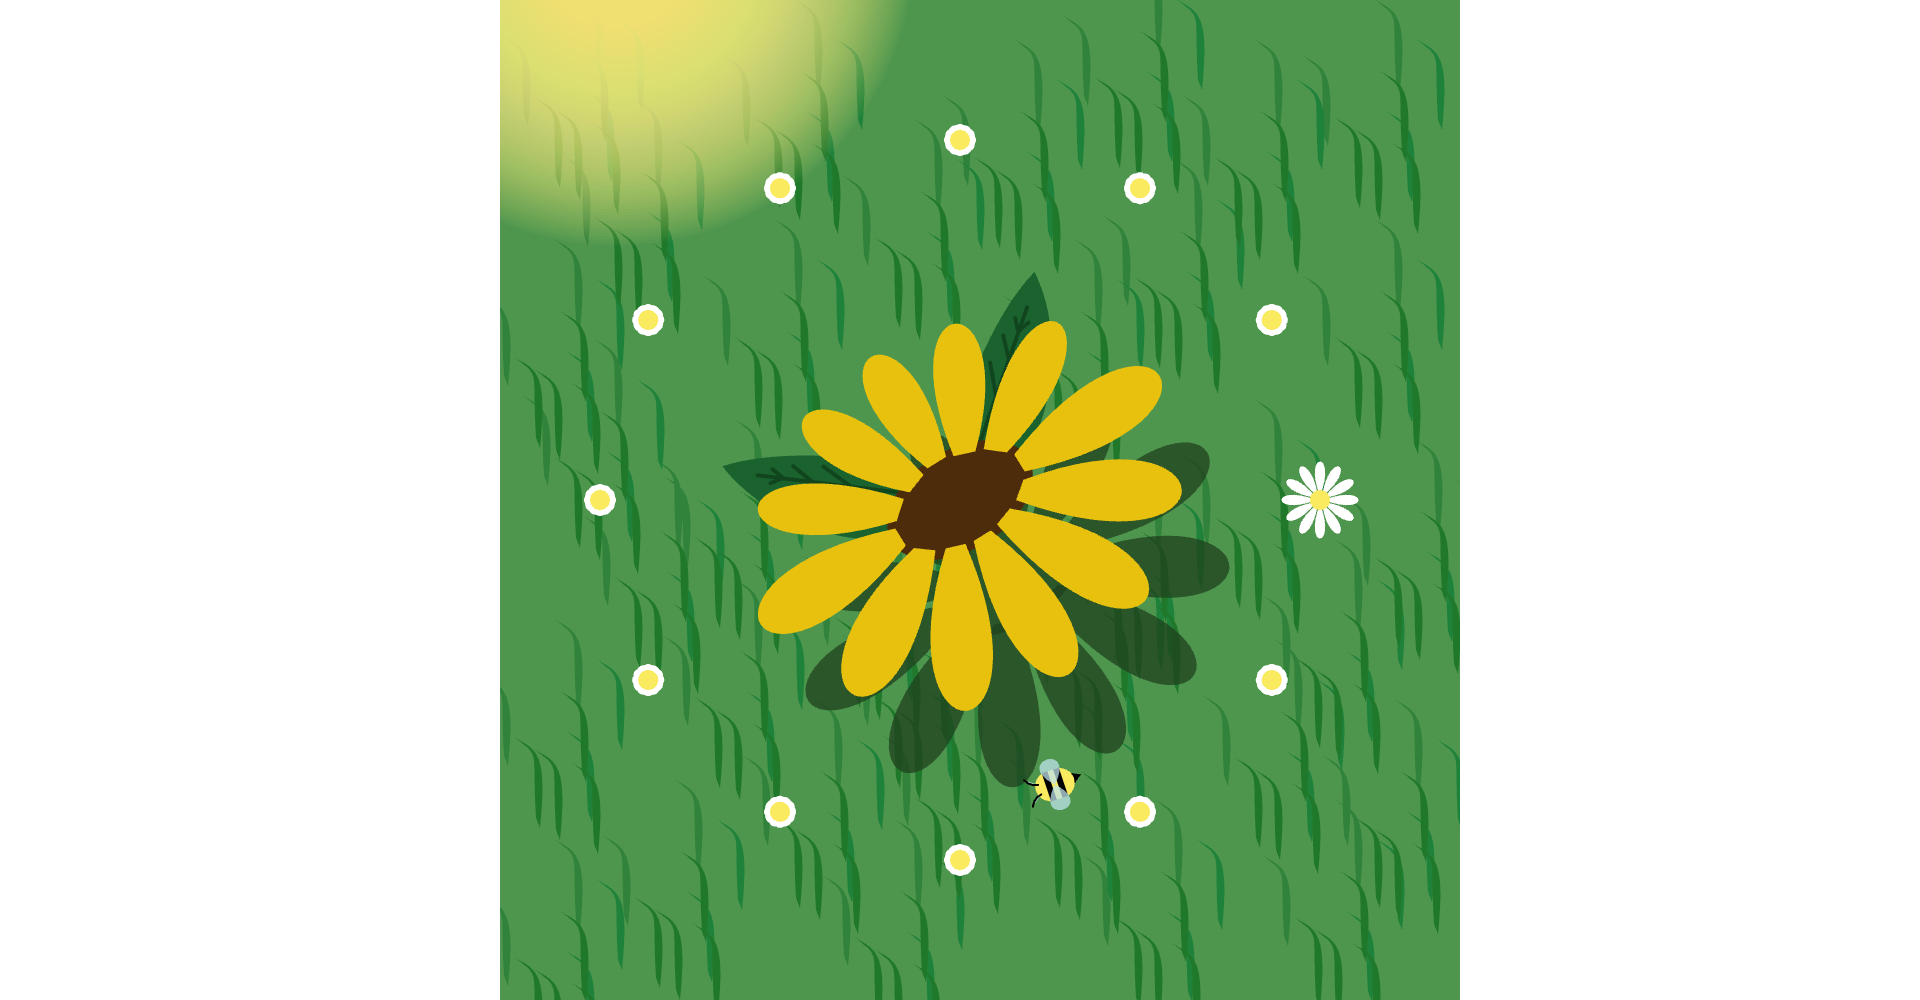
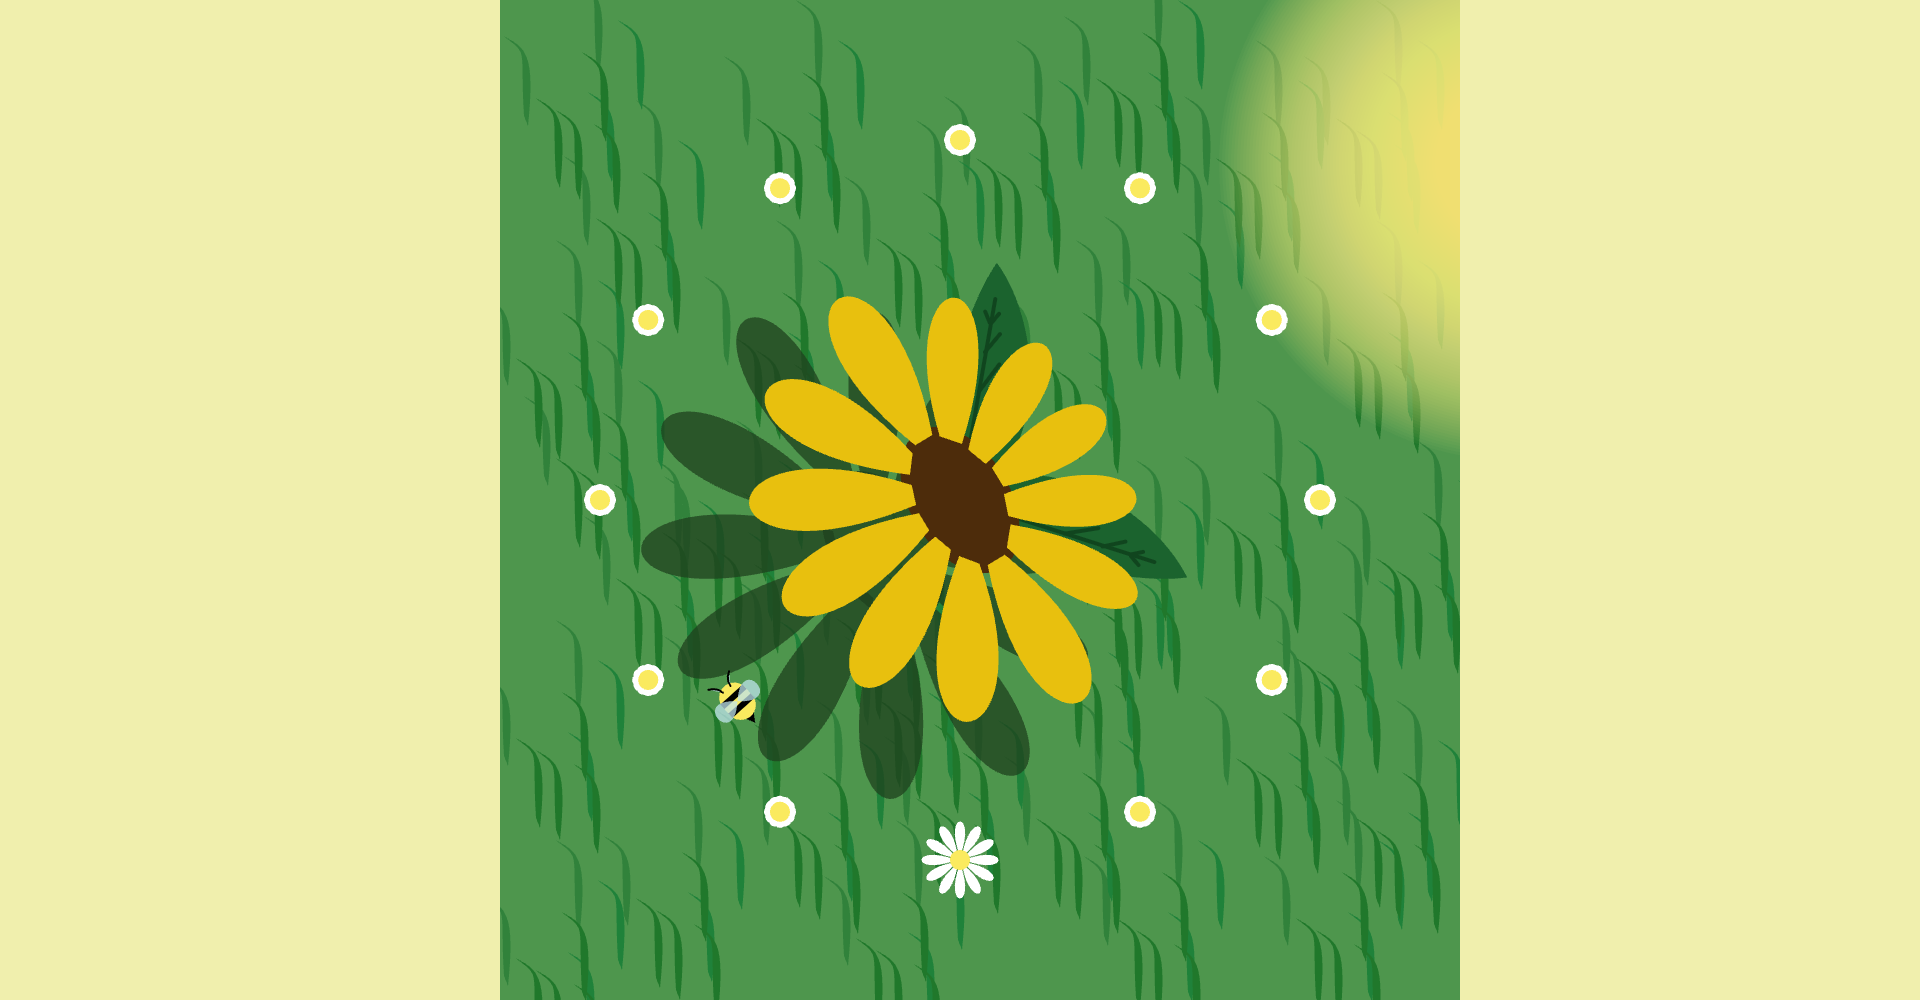
Read me and scaling shadow

diff --git a/clock.js b/clock.js
@@ -10,6 +10,7 @@ let growSun; // define sun growth's default as 0
 var shakeAngle = 0;	// initialize daisies' shake angle
 var daisyShakeRadius = .5;  // radius of daisies' shake
 
+// coordinates of daisies array
 function populate_daisyArray() {
   const daisyFieldRadius = 180; // radius of daisy field
   const daisySin30 = daisyFieldRadius * sin(30); // daisy field radius * sin(30)
@@ -68,12 +69,11 @@ function draw_clock(obj) {
   translate(0, 45); //offeset shadow
   shadow(); // sunflower shadow
   pop();
-  leaves(); // sunflower leaves
   sunflower(); // sunflower
   sun(); // sun
   pop();
  
-  if(obj.seconds_until_alarm < 0 || obj.seconds_until_alarm === undefined){ //default clock
+  if(obj.seconds_until_alarm < 0 || obj.seconds_until_alarm === undefined){ // default clock
     growSun = 0;
     push();
     daisyField(); //daisy field
@@ -102,10 +102,7 @@ function draw_clock(obj) {
   translate(-width / 2, -height / 2); // translate (0, 0) to top left of canvas
   push();
   noStroke(); // no stroke weight
-  fill(252, 238, 149); // white colour
-  // for(i = 0; i < 100; i++){
-  //   ellipse(0, -325, i * 3); // feathered circle
-  // }
+  fill(240, 239, 173); // light yellow colour
   rect(0, 0, height / 2, height); // left rectangle
   rect((width + height) / 2, 0, height / 2, height); // right rectangle
   pop();
@@ -189,6 +186,7 @@ function grassMulticoloured(){
   const green3 = color(32, 120, 43);
   const green4 = color(32, 120, 43);
 
+  // multicoloured field array
   let fieldArray = [
     [0, -40, green1],
     [-36, -12, green1],
@@ -207,7 +205,7 @@ function grassMulticoloured(){
     push();
     fill(fieldColour); // grass colours 
     translate(fieldX, fieldY); // single grass field position
-    grass(); // single gras field 
+    grass(); // single grass field 
     pop();
   }
 }
@@ -217,6 +215,15 @@ function sunflower() {
   noStroke(); // no stroke
   push();
 
+  // sunflower leaves
+  push();
+  rotate(130);
+  leaves(); // left leaf (when 0:00)
+  scale(-1, 1); // flip
+  rotate(-100); 
+  leaves(); // right leaf (when 0:00)
+  pop();
+
   // disc floret
   fill(77, 44, 11); // brown colour 
   ellipse(0, 0, 80, 50); // disk floret
@@ -224,7 +231,7 @@ function sunflower() {
   //sunflower petals
   fill(232, 192, 14); // yellow colour
 
-  // 12 o'clock petal (when 0:00
+  // 12 o'clock petal (when 0:00)
   bezier(-5.5, -22, -35, -105, 35, -105, 5.5, -22);
 
   // 1 o'clock petal (when 0:00)
@@ -274,13 +281,9 @@ function sunflower() {
   pop();
 }
 
-// sunflower leaves
+// sunflower leaf
 function leaves(){
-  push();
-
-  // left leaf (when 0:00)
-  noStroke();
-  rotate(130); // leaf position
+  noStroke(); // no stroke
   fill(27, 99, 46); // green colour
   //leaf shape
   beginShape();
@@ -296,96 +299,81 @@ function leaves(){
   line(-1, 90, 2, 95); // top line
   line(-1, 75, -7, 85); // middle line
   line(-1, 55, -9, 70); // bottom line
-
-  // right leaf (when 0:00)
-  noStroke(); // no stroke
-  rotate(100); // leaf position
-  //leaf shape
-  beginShape();
-  vertex(0, 0);
-  bezierVertex(40, 20, 30, 90, 0, 120);
-  bezierVertex(-15, 90, -20, 20, 0, 0);
-  endShape();
-  // leaf viens
-  strokeWeight(2); // vien size
-  stroke(16, 69, 30); // darker green
-  line(0, 0, 2, 102); // centre line
-  line(2, 90, 5, 95); // top line
-  line(1, 90, -2, 95); // top line
-  line(1, 75, 7, 85); // middle line
-  line(1, 55, 9, 70); // bottom line
-
-  pop();
 }
 
 // sunflower shadow function
 function shadow() {
-  let growShadow;
-  // from 6:00 to 12:00 shadow gets longer
+  let lengthenShadow; // define lengthening shadow map
+  let scaleShadow; // define scaling shadow map
+  // from 6:00 to 12:00 shadow grows
   if (obj.hours >= 6 && obj.hours <= 12){ 
-    growShadow = map(obj.hours, 6, 12, 0, -20)  
+    lengthenShadow = map(obj.hours, 6, 12, 0, -20);
+    scaleShadow = map(obj.hours, 6, 12, 1, 1.1);
   }
-  // from 12:00 to 18:00 shadow gets shorter
+  // from 12:00 to 18:00 shadow shrinks
   else if ( obj.hours > 12 && obj.hours <= 18 ){
-    growShadow = map(obj.hours, 13,18, -20,0);
+    lengthenShadow = map(obj.hours, 13, 18, -20, 0);
+    scaleShadow = map(obj.hours, 6, 12, 0.9, 1);
   }
   // from 18:00 to 6:00 shadow does not change
   else {
-    growShadow = 0;
+    lengthenShadow = 0;
+    scaleShadow = 1;
   }
 
   push();
+  scale(scaleShadow); // scale shadow
   noStroke(); // no outline
 
   fill(30, 64, 29, 0.75); // dark green colour
   ellipse(0, 0, 80, 50); // disk floret
 
   // 12 o'clock petal (when 0:00)
-  bezier(-5.5, -22, -35, -105 + growShadow, 35, -105 + growShadow, 5.5, -22);
+  bezier(-5.5, -22, -35, -105 + lengthenShadow, 35, -105 + lengthenShadow, 5.5, -22);
 
   // 1 o'clock petal (when 0:00)
   rotate(30);
-  bezier(-2.5, -22, -35, -110 + growShadow, 35, -110 + growShadow, 8.5, -24);
+  bezier(-2.5, -22, -35, -110 + lengthenShadow, 35, -110 + lengthenShadow, 8.5, -24);
 
   // 2 o'clock petal (when 0:00)
   rotate(30);
-  bezier(-1.5, -28, -35, -125 + growShadow, 35, -125 + growShadow, 9.5, -32);
+  bezier(-1.5, -28, -35, -125 + lengthenShadow, 35, -125 + lengthenShadow, 9.5, -32);
 
   // 3 o'clock petal (when 0:00)
   rotate(30);
-  bezier(-5, -35, -45, -145 + growShadow * .9, 45, -145 + growShadow * .9, 5, -35);
+  bezier(-5, -35, -45, -145 + lengthenShadow * .9, 45, -145 + lengthenShadow * .9, 5, -35);
 
   // 4 o'clock petal (when 0:00)
   rotate(30);
-  bezier(-9, -32, -45, -138 + growShadow * .93, 45, -138 + growShadow  * .93, 1, -28);
+  bezier(-9, -32, -45, -138 + lengthenShadow * .93, 45, -138 + lengthenShadow  * .93, 1, -28);
 
   // 5 o'clock petal (when 0:00)
   rotate(30);
-  bezier(-8, -24, -45, -133 + growShadow * .96, 45, -133 + growShadow * .96, 2, -22);
+  bezier(-8, -24, -45, -133 + lengthenShadow * .96, 45, -133 + lengthenShadow * .96, 2, -22);
 
   // 6 o'clock petal (when 0:00)
   rotate(30);
-  bezier(-5, -21, -45, -130 + growShadow, 45, -130 + growShadow, 5, -21);
+  bezier(-5, -21, -45, -130 + lengthenShadow, 45, -130 + lengthenShadow, 5, -21);
 
   // 7 o'clock petal (when 0:00)
   rotate(30);
-  bezier(-2, -22, -45, -133 + growShadow * .96, 45, -133 + growShadow * .96, 8, -24);
+  bezier(-2, -22, -45, -133 + lengthenShadow * .96, 45, -133 + lengthenShadow * .96, 8, -24);
 
   // 8 o'clock petal (when 0:00)
   rotate(30);
-  bezier(-1, -28, -45, -138 + growShadow * .93, 45, -138 + growShadow * .93, 9, -32);
+  bezier(-1, -28, -45, -138 + lengthenShadow * .93, 45, -138 + lengthenShadow * .93, 9, -32);
 
   // 9 o'clock petal (when 0:00)
   rotate(30);
-  bezier(-5, -35, -45, -145 + growShadow * .9, 45, -145 + growShadow * .9, 5, -35);
+  bezier(-5, -35, -45, -145 + lengthenShadow * .9, 45, -145 + lengthenShadow * .9, 5, -35);
 
   // 10 o'clock petal (when 0:00)
   rotate(30);
-  bezier(-9.5, -32, -35, -125 + growShadow, 35, -125 + growShadow, 1.5, -28);
+  bezier(-9.5, -32, -35, -125 + lengthenShadow, 35, -125 + lengthenShadow, 1.5, -28);
 
   // 11 o'clock petal (when 0:00)
   rotate(30);
-  bezier(-8.5, -24, -35, -110 + growShadow, 35, -110 + growShadow, 2.5, -22);
+  bezier(-8.5, -24, -35, -110 + lengthenShadow, 35, -110 + lengthenShadow, 2.5, -22);
 
   pop();
 }
@@ -448,13 +436,15 @@ function daisyShape(x, y, isBloomed = false) {
   let shakeX; // define daises X axis shake
   let shakeY; // define daises X axis shake
   
+  // shaking daisy when alarm is set
   if (obj.seconds_until_alarm > 0){
-    shakeX = daisyShakeRadius * cos(shakeAngle)
-    shakeY = daisyShakeRadius * sin(shakeAngle);
-    shakeAngle += 2.5;
+    shakeX = daisyShakeRadius * cos(shakeAngle); // move daisy along x axis
+    shakeY = daisyShakeRadius * sin(shakeAngle); // move daisy along y axis
+    shakeAngle += 2.5; // 
   } 
+  // daisy is stationary
   else {
-    shakeX = 0;
+    shakeX = 0; 
     shakeY = 0;
   }
   translate(x + shakeX, y + shakeY); // daisy centre at (x, y)

diff --git a/README.md b/README.md
@@ -4,7 +4,7 @@
 
 ## Sun(flower) Dial - Hayley Chung 
 
-Sun(flower) Dial visually depicts the concept of time through how sunflowers, daisies, and bees in nature respond to the time throughout the day. This method of telling time was inspired by Kircher's sunflower clock and Linnaeus's flower clock. The heliotropic nature of the sunflower rotates to follow the sun and displays the hour, the location of the singular bloomed daisy indicates the minutes in five-minute intervals, and the bee flies around in a circle representing the seconds. For the alarm function, all twelve daisies in the field bloom when the alarm is going off. 
+Sun(flower) Dial visually depicts the concept of time through how sunflowers, daisies, and bees in nature respond to the time throughout the day. This method of telling time was inspired by Kircher's sunflower clock and Linnaeus's flower clock. The heliotropic nature of the sunflower rotates to follow the sun and displays the hour, and the size of the shadow changes to reflect the time of day. The location of the singular bloomed daisy indicates the minutes in five-minute intervals, when the alarm is set all twelve daisies begin to shake until the alarm goes off and all twelve daisies are in full bloom. The bee flies around in a circle representing the seconds.
 
 ### Part 1: [Sketch](https://25-mddn242.github.io/time-based-media-hayley-c/part1.html)
 
@@ -29,7 +29,7 @@ My process began with creating the visual of a flower inside a ring, inspired by
 I explored the possibility of a clock with a blooming water lily and koi fish in a pond. 
 Although this was easier to create with code, I was attached to the idea of a heliotropic sunflower following the sun.
 
-<img src = "/assets/waterLily.jpg" alt = "Exploration of a water lily clock" width = 300>
+<img src = "/assets/waterLily.jpg" alt = "Exploration of a water lily clock" width = 600>
 
 Rather showing a front view of the sunflower, an aerial perspective would better suit the code medium. To create the illusion of the sunflower following the sun’s motion to show the hour, I used the shape of the petal to make the flower appear slightly tilted, added a glowing sun, and a shadow. 
 
@@ -46,7 +46,9 @@ function sun(){
 }
 ```
 
-To more accurately represent how the sunflower's shadow changes oover the course of the day, I added maps within if statements to lengthen the shadow between 6:00 and 12:00, then shhorten it between 12:00 and 18:00 
+To make the alarm more impactful, I increased the size of the sun when the alarm goes off.
+
+To more accurately represent how the sunflower's shadow changes over the course of the day, I added maps within if statements to lengthen the shadow between 6:00 and 12:00, then shhorten it between 12:00 and 18:00. I explored making the lengthening effect more dramatic, however this altered the ratio between the petal shadows' length and width. So, in addition to lengthening the shadows, I also scaled them up and down slightly which didn't impact the ratio too much.
 
 For the seconds, I added a bee which flies around in a circle showing the clock’s seconds. I have used random number to create a buzzing effect. For the bee’s motion I had initially mapped obj.seconds, but later created a map with exact seconds to create a smoother more natural motion for the bee. 
 
@@ -54,7 +56,7 @@ To determine the location of the 12 daisies, I had tried to use a for loop. Howe
 
 For the daisy shapes, I used a for loop the petals. However, when animating the petals for a blooming effect, the for loop would continue to draw resulting in a bug where one petal would continue to grow.
 
-<img src = "/assets/petalBug.jpg" alt = "Bloominng petal length bug" width = 300>
+<img src = "/assets/petalBug.jpg" alt = "Bloominng petal length bug" width = 600>
 
 Adding an if statement and condition to only increase the petal’s length when it was not fully bloomed fixed this bug. 
 
@@ -81,14 +83,15 @@ shakeY = 0;
 translate(x + shakeX, y + shakeY); // daisy centre at (x, y)
 ```
 
-A design choice I have made is to include padding on the right and left sides of the canvas to create a square frame around the clock. Because of the smaller scale of the clock’s elements, the tighter framing reduces the empty space thus highlighting the clock itself. 
-<img src = "/assets/withoutPadding.png" alt = "Clock without padding" width = 300>
-<img src = "/assets/withPadding.png" alt = "Clock with padding" width = 300>
+A design choice I have made is to include padding on the right and left sides of the canvas to create a square frame around the clock. Because of the smaller scale of the clock’s elements, the tighter framing reduces the empty space thus highlighting the clock itself. The padding was white to begin with but I later changed it to a light yello shade to make the clock more cohesive
+<img src = "/assets/withoutPadding.png" alt = "Clock without padding" width = 600>
+<img src = "/assets/withPadding.png" alt = "Clock with padding" width = 600>
+<img src = "/assets/yellowPadding.png" alt = "Clock with padding" width = 600>
 
 The addition of a grass field swaying in the wind, furthers the peaceful atmosphere of the clock and adds more dimension and movement to the scene. The code to create the swaying motion is adapted from [sr5516’s 11.16, module 4, simple harmonic motion - pendulum motion square sketch](https://editor.p5js.org/sr5516/sketches/F2MIdyRmk). I adjusted the variables and applied the motion to just the top of the bezier curves that form the blades of grass. To populate the background with grass I utilized arrays, first for each individual blade then for layers of grass fields.
 
-<img src = "/assets/withoutField.png" alt = "Clock without grass field" width = 300>
-<img src = "/assets/withField.png" alt = "Clock with grass field" width = 300>
+<img src = "/assets/withoutField.png" alt = "Clock without grass field" width = 600>
+<img src = "/assets/withField.png" alt = "Clock with grass field" width = 600>
 
 ```
 var swayPeriod = 0.0; // define grass swaying period
@@ -103,8 +106,8 @@ sway = cos(swayPeriod) * amplitude; // sway motion
 Outside the scope of this project, I would explore using changing colours and shades to reflect day and night. I would also work on blooming and unblooming the diasies when the minutes change to create a smoother transition.
 
 ### Part 4: Clock Alarm
-<img src = "/preview.jpg" alt = "Sun(flower) Dial when alarm goes off" width = 300>
+<img src = "/preview.jpg" alt = "Sun(flower) Dial when alarm goes off">
 
 ### Part 5: [Final Clock](https://25-mddn242.github.io/time-based-media-hayley-c/) 
 #### Sun(flower) Dial
-<img src = "/assets/sun(flower)DialClock.png" alt = "Sun(flower) Dial main view" width = 300>
+<img src = "/assets/sun(flower)DialClock.png" alt = "Sun(flower) Dial main view">
